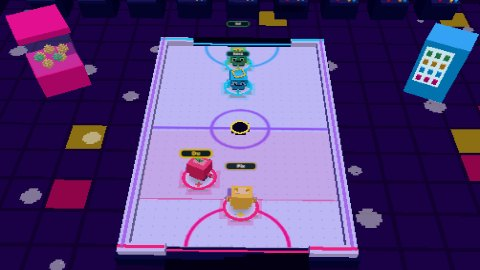
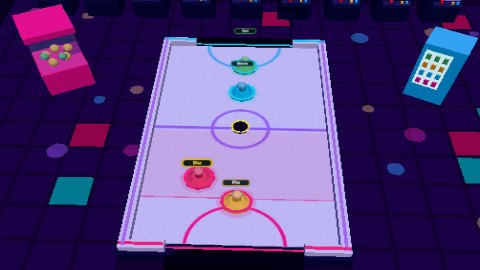
Luftpuck: die Spieler sind jetzt Airhockey-Schläger
Bisher standen Figuren auf Schwebescheiben über dem Tisch. Von oben
verdeckten sie den Puck, und es sah nicht nach Airhockey aus. Jetzt ist
jeder Spieler ein Schläger, wie man ihn vom echten Tisch kennt: flacher
Fuss und kegeliger Aufbau in der eigenen Farbe, ein Neonring in der
Teamfarbe, Griff mit Knauf, darüber das Namensschild. Die Grösse ist
genau der Stossradius aus den Regeln.

Damit es sich lebendig anfühlt: Der Schläger neigt sich leicht in die
Bewegung, staucht sich bei jedem Stoss kurz, hüpft beim eigenen Tor, und
am Ende hüpft das Siegerteam. Allein spielt man gegen einen grauen
Automaten-Schläger mit rotem Ring statt gegen einen Kasten.

Die Lichtpunkte der Discokugel waren weisse, halbdurchsichtige Flecken
und wirkten auf dem dunklen Boden wie graue Schlieren; jetzt sind es
farbige Neonlichter. Hilfetexte und Vorschaubild angepasst.

Claude-Session: https://claude.ai/code/session_01TtCca8TKwPjvga33C8jxNp

diff --git a/client/src/minigames/AirHockey.js b/client/src/minigames/AirHockey.js
@@ -2,13 +2,17 @@ import * as THREE from "/vendor/three/three.module.js";
 import { MinigameScene } from "./MinigameScene.js?v=tumblekin213";
 import { VirtualJoystick } from "./VirtualJoystick.js?v=tumblekin213";
 import { frameLerp } from "./Quality.js?v=tumblekin213";
+import { createNameLabel } from "./VoxelKit.js?v=tumblekin213";
 import { kiste, lambert, viele, streuer } from "./Kulisse.js?v=tumblekin213";
 import { forecastHockey, hockeyRules, limits } from "./Puckbahn.js?v=tumblekin213";
 
 // Luftpuck — ein riesiger Airhockey-Tisch in einer Neon-Spielhalle. Jeder
-// steht auf einer Schwebescheibe in seiner Hälfte und schiebt den Puck. Das
-// eigene Tor liegt für Team 0 vorn, für Team 1 hinten; die Banden leuchten in
-// der Farbe des Teams, das sie verteidigt.
+// Spieler IST ein Airhockey-Schläger: runder Fuss in der eigenen Farbe, ein
+// Neonring in der Teamfarbe, Griff mit Knauf obendrauf, darüber das
+// Namensschild. Vorher standen Figuren auf Schwebescheiben — sie verdeckten
+// den Puck, und es sah nicht nach Airhockey aus. Das eigene Tor liegt für
+// Team 0 vorn, für Team 1 hinten; die Banden leuchten in der Farbe des
+// Teams, das sie verteidigt.
 //
 // Drumherum: Spielautomaten mit flimmernden Bildschirmen, ein Greifautomat,
 // Neonschriften, eine Discokugel, die Lichtpunkte über den Boden wirft, und
@@ -22,7 +26,7 @@ const TICK_LEAD_MS = 45;         // halber Servertakt (90 ms), siehe stickAt
 export class AirHockey extends MinigameScene {
   constructor(ctx) {
     super(ctx);
-    this.discs = new Map();
+    this.mallets = new Map();      // playerId → { group, body, side, r, hit, hop }
     this.roundTrip = 0;
     this.stickLog = [];            // { at, x, y }: was das Gerät wann geschickt hat (Geräteuhr)
     this.stickWanted = null;
@@ -31,7 +35,7 @@ export class AirHockey extends MinigameScene {
     this.view = null;              // Vorausrechnung zur Ankunftszeit (forecastHockey)
     this.ownTouchAt = 0;           // wann das Gerät den eigenen Stoss schon gezeigt hat
     this.seenGoals = 0;
-    this.labelY = 0.8;
+    this.labelY = 0.78;
     this.screens = [];
     this.spots = null;
     this.lastTouch = null;
@@ -90,28 +94,14 @@ export class AirHockey extends MinigameScene {
       const entry = arcade?.players?.[player.id];
       const r = entry?.r ?? 0.36;
       const side = entry?.side ?? index % 2;
-      this.addKin(player, index, { x: entry?.x ?? 0, ground: TABLE_Y + 0.12, z: entry?.z ?? 0, facing: side === 0 ? Math.PI : 0 });
-      // Die Schwebescheibe unter der Figur, im Teamlicht.
-      const disc = new THREE.Group();
-      const koerper = new THREE.Mesh(new THREE.CylinderGeometry(r, r * 1.02, 0.12, 28), lambert("#f4f6fb"));
-      koerper.castShadow = true;
-      disc.add(koerper);
-      const ring = new THREE.Mesh(new THREE.TorusGeometry(r, 0.035, 6, 28), new THREE.MeshBasicMaterial({ color: TEAM_COLORS[side] }));
-      ring.rotation.x = Math.PI / 2;
-      ring.position.y = 0.06;
-      disc.add(ring);
-      const glow = new THREE.Mesh(new THREE.CircleGeometry(r * 1.3, 24), new THREE.MeshBasicMaterial({ color: TEAM_COLORS[side], transparent: true, opacity: 0.25, depthWrite: false }));
-      glow.rotation.x = -Math.PI / 2;
-      glow.position.y = -0.055;
-      glow.userData.isFx = true;
-      disc.add(glow);
-      const punkt = new THREE.Mesh(new THREE.CircleGeometry(0.08, 12), new THREE.MeshBasicMaterial({ color: player.color }));
-      punkt.rotation.x = -Math.PI / 2;
-      punkt.position.set(0, 0.061, r * 0.62);
-      disc.add(punkt);
-      disc.position.set(entry?.x ?? 0, TABLE_Y + 0.06, entry?.z ?? 0);
-      scene.add(disc);
-      this.discs.set(player.id, { disc, side, r });
+      const mallet = buildMallet(player.color, TEAM_COLORS[side], r);
+      mallet.group.position.set(entry?.x ?? 0, TABLE_Y, entry?.z ?? 0);
+      const label = createNameLabel(String(player.name || "?").slice(0, 8), player.color, { own: player.id === this.getControlledPlayerId() });
+      label.position.y = this.labelY;
+      mallet.group.add(label);
+      this.labels.set(player.id, label);
+      scene.add(mallet.group);
+      this.mallets.set(player.id, { ...mallet, side, r, hit: 0, hop: 0 });
       // Im Zweierteam hat jeder eine Zone — die eigene leuchtet schwach auf
       // dem Tisch, damit klar ist, warum die Scheibe dort stehen bleibt.
       if (player.id === this.getControlledPlayerId() && entry?.lane) {
@@ -133,14 +123,11 @@ export class AirHockey extends MinigameScene {
       }
     });
     if (state?.robot) {
-      const robo = new THREE.Group();
-      kiste(robo, 0.5, 0.36, 0.5, "#9aa6b8", [0, 0.3, 0]);
-      kiste(robo, 0.36, 0.08, 0.04, "#ff3b3b", [0, 0.38, 0.26], { schatten: false });
-      const scheibe2 = new THREE.Mesh(new THREE.CylinderGeometry(state.robot.r, state.robot.r, 0.12, 28), lambert("#c9d1dc"));
-      robo.add(scheibe2);
-      robo.position.set(state.robot.x, TABLE_Y + 0.06, state.robot.z);
-      scene.add(robo);
-      this.robot = robo;
+      // Allein spielt man gegen einen Automaten-Schläger: grau, rotes Licht.
+      const robo = buildMallet("#9aa6b8", "#ff3b3b", state.robot.r);
+      robo.group.position.set(state.robot.x, TABLE_Y, state.robot.z);
+      scene.add(robo.group);
+      this.robot = robo.group;
     }
   }
 
@@ -222,7 +209,12 @@ export class AirHockey extends MinigameScene {
     this.discoBall = kugel;
     const punkte = [];
     for (let i = 0; i < 26; i += 1) punkte.push({ p: [0, 0.012, 0], r: [-Math.PI / 2, 0, 0], s: 0.2 + zufall() * 0.15 });
-    this.spots = viele(scene, new THREE.CircleGeometry(1, 10), new THREE.MeshBasicMaterial({ color: "#ffffff", transparent: true, opacity: 0.5, depthWrite: false }), punkte);
+    // Farbiges Licht, das sich addiert — weisse halbdurchsichtige Flecken
+    // sahen auf dem dunklen Boden aus wie graue Schlieren.
+    this.spots = viele(scene, new THREE.CircleGeometry(1, 10), new THREE.MeshBasicMaterial({ color: "#ffffff", transparent: true, opacity: 0.35, depthWrite: false, blending: THREE.AdditiveBlending }), punkte);
+    const neon = ["#ff3b8d", "#2fd6ff", "#b57bff", "#ffe25c"].map((c) => new THREE.Color(c));
+    punkte.forEach((_, i) => this.spots.setColorAt(i, neon[i % neon.length]));
+    if (this.spots.instanceColor) this.spots.instanceColor.needsUpdate = true;
     this.spots.userData.isFx = true;
     this.spotSeeds = punkte.map(() => ({ a: zufall() * Math.PI * 2, r: 3 + zufall() * 6, s: 0.1 + zufall() * 0.2 }));
     // Anzeigetafel über dem Tisch.
@@ -315,7 +307,7 @@ export class AirHockey extends MinigameScene {
       </div>`;
     this.joystick = new VirtualJoystick({
       root: this.controls.querySelector(".joystick-slot"),
-      label: "Luftpuck: Scheibe steuern",
+      label: "Luftpuck: Schläger steuern",
       intervalMs: 60,
       feedback: this.feedback,
       surface: this.webglCanvas,
@@ -438,50 +430,57 @@ export class AirHockey extends MinigameScene {
         if (event.kind !== "touch" || event.id !== controlledId || event.at <= this.ownTouchAt) return;
         this.ownTouchAt = event.at;
         this.ownTouchShownAt = performance.now();
-        this.animators.get(controlledId)?.trigger("punch");
+        const own = this.mallets.get(controlledId);
+        if (own) own.hit = 1;
         this.burst(new THREE.Vector3(event.x, TABLE_Y + 0.1, event.z), [TEAM_COLORS[arcade.players[controlledId]?.side ?? 0], "#ffffff"], { count: 6, speed: 1.3, up: 0.8, size: 0.05, life: 0.35 });
         this.feedback?.sound("clack");
         this.feedback?.vibrate(10);
       });
     }
 
-    // Scheiben und Figuren.
+    // Die Schläger.
+    const sieger = f.finale ? ((state.score?.[0] || 0) > (state.score?.[1] || 0) ? 0 : (state.score?.[1] || 0) > (state.score?.[0] || 0) ? 1 : -1) : -1;
     players.forEach((player) => {
       const entry = view.mallets.get(player.id) || arcade.players[player.id];
       const served = arcade.players[player.id];
-      const kin = this.kins.get(player.id);
-      const animator = this.animators.get(player.id);
-      const disc = this.discs.get(player.id);
-      if (!entry || !kin || !animator || !disc) return;
+      const m = this.mallets.get(player.id);
+      if (!entry || !m) return;
       const isOwn = player.id === controlledId;
-      // Die eigene Scheibe folgt der Vorausrechnung fast ohne Verzug — sie
+      // Der eigene Schläger folgt der Vorausrechnung fast ohne Verzug — er
       // IST schon die Antwort auf den Stick.
       const follow = isOwn ? 0.75 : 0.5;
-      disc.disc.position.x += (entry.x - disc.disc.position.x) * frameLerp(follow, dt);
-      disc.disc.position.z += (entry.z - disc.disc.position.z) * frameLerp(follow, dt);
-      disc.disc.position.y = TABLE_Y + 0.06 + Math.sin(now / 200 + disc.r * 10) * 0.012;
-      kin.position.x = disc.disc.position.x;
-      kin.position.z = disc.disc.position.z;
-      // Die Figur schaut zum Puck.
-      const look = Math.atan2(this.puck.position.x - kin.position.x, this.puck.position.z - kin.position.z);
-      kin.rotation.y += Math.atan2(Math.sin(look - kin.rotation.y), Math.cos(look - kin.rotation.y)) * frameLerp(0.2, dt);
-      const moving = Math.hypot(entry.vx || 0, entry.vz || 0) > 0.6;
+      const g = m.group;
+      const px = g.position.x;
+      const pz = g.position.z;
+      g.position.x += (entry.x - g.position.x) * frameLerp(follow, dt);
+      g.position.z += (entry.z - g.position.z) * frameLerp(follow, dt);
+      // Neigt sich leicht in die Bewegung, wie unter einer Hand.
+      const vx = dt > 0 ? (g.position.x - px) / dt : 0;
+      const vz = dt > 0 ? (g.position.z - pz) / dt : 0;
+      m.body.rotation.z += (Math.max(-0.22, Math.min(0.22, -vx * 0.035)) - m.body.rotation.z) * frameLerp(0.3, dt);
+      m.body.rotation.x += (Math.max(-0.22, Math.min(0.22, vz * 0.035)) - m.body.rotation.x) * frameLerp(0.3, dt);
+      // Stoss: kurz breiter und flacher; Tor: ein Hüpfer; am Ende hüpft das
+      // Siegerteam.
+      m.hit = Math.max(0, m.hit - dt * 5);
+      m.hop = Math.max(0, m.hop - dt * 1.6);
+      const cheer = sieger === m.side ? Math.max(0, Math.sin(now / 140 + m.r * 7)) * 0.18 : 0;
+      g.position.y = TABLE_Y + Math.sin(m.hop * Math.PI * 2) * 0.12 * m.hop + cheer;
+      m.body.scale.set(1 + m.hit * 0.14, 1 - m.hit * 0.18, 1 + m.hit * 0.14);
       if (f.finale) return;
-      animator.set(moving ? "ride" : "ready");
       // Stösse der anderen (und eigene, die die Vorausrechnung nicht sah)
       // kommen vom Server.
-      if ((served?.touches || 0) > (disc.touches ?? served?.touches ?? 0)) {
+      if ((served?.touches || 0) > (m.touches ?? served?.touches ?? 0)) {
         const shown = isOwn && performance.now() - (this.ownTouchShownAt || 0) < 500;
         if (!shown) {
-          animator.trigger("punch");
-          this.burst(this.puck.position.clone().setY(TABLE_Y + 0.1), [TEAM_COLORS[disc.side], "#ffffff"], { count: 6, speed: 1.3, up: 0.8, size: 0.05, life: 0.35 });
+          m.hit = 1;
+          this.burst(this.puck.position.clone().setY(TABLE_Y + 0.1), [TEAM_COLORS[m.side], "#ffffff"], { count: 6, speed: 1.3, up: 0.8, size: 0.05, life: 0.35 });
           if (isOwn) {
             this.feedback?.sound("clack");
             this.feedback?.vibrate(10);
           }
         }
       }
-      disc.touches = served?.touches || 0;
+      m.touches = served?.touches || 0;
     });
     const robot = view.state.robot || state.robot;
     if (this.robot && robot) {
@@ -500,7 +499,8 @@ export class AirHockey extends MinigameScene {
       this.drawBoard(state.score);
       const shooter = goal.by ? players.find((pl) => pl.id === goal.by) : null;
       this.pop(at.clone().add(new THREE.Vector3(0, 0.8, 0)), goal.own ? "EIGENTOR!" : "TOR!", { color: "#ffe36b", size: 0.6, life: 1.4 });
-      if (shooter) this.animators.get(shooter.id)?.trigger("celebrate");
+      const torschuetze = shooter && this.mallets.get(shooter.id);
+      if (torschuetze && !goal.own) torschuetze.hop = 1;
       const own = arcade.players[controlledId];
       this.rig.shake(0.45);
       if (own) {
@@ -633,4 +633,42 @@ function neonTextur(text) {
 
 function escapeName(name) {
   return String(name || "?").slice(0, 6).replace(/[&<>"']/g, "");
+}
+
+// Ein Airhockey-Schläger: flacher Fuss, Neonring, kegeliger Aufbau, Griff
+// mit Knauf. `body` neigt und staucht sich, `group` trägt die Position.
+function buildMallet(color, ringColor, r) {
+  const group = new THREE.Group();
+  const body = new THREE.Group();
+  group.add(body);
+  const hell = new THREE.Color(color).lerp(new THREE.Color("#ffffff"), 0.18);
+  const dunkel = new THREE.Color(color).lerp(new THREE.Color("#000000"), 0.25);
+  const fuss = new THREE.Mesh(new THREE.CylinderGeometry(r, r * 1.02, 0.08, 32), lambert(color));
+  fuss.position.y = 0.04;
+  fuss.castShadow = true;
+  body.add(fuss);
+  const ring = new THREE.Mesh(new THREE.TorusGeometry(r * 0.93, 0.035, 8, 32), new THREE.MeshBasicMaterial({ color: ringColor }));
+  ring.rotation.x = Math.PI / 2;
+  ring.position.y = 0.085;
+  body.add(ring);
+  const aufbau = new THREE.Mesh(new THREE.CylinderGeometry(r * 0.48, r * 0.8, 0.1, 28), lambert(color));
+  aufbau.position.y = 0.13;
+  aufbau.castShadow = true;
+  body.add(aufbau);
+  const griff = new THREE.Mesh(new THREE.CylinderGeometry(r * 0.24, r * 0.3, 0.18, 20), new THREE.MeshLambertMaterial({ color: dunkel }));
+  griff.position.y = 0.27;
+  griff.castShadow = true;
+  body.add(griff);
+  const knauf = new THREE.Mesh(new THREE.SphereGeometry(r * 0.36, 20, 14), new THREE.MeshLambertMaterial({ color: hell }));
+  knauf.scale.y = 0.8;
+  knauf.position.y = 0.38;
+  knauf.castShadow = true;
+  body.add(knauf);
+  // Ein Schein in der Ringfarbe unter dem Fuss.
+  const schein = new THREE.Mesh(new THREE.CircleGeometry(r * 1.3, 24), new THREE.MeshBasicMaterial({ color: ringColor, transparent: true, opacity: 0.22, depthWrite: false }));
+  schein.rotation.x = -Math.PI / 2;
+  schein.position.y = 0.006;
+  schein.userData.isFx = true;
+  group.add(schein);
+  return { group, body };
 }

diff --git a/client/src/minigames/catalog.js b/client/src/minigames/catalog.js
@@ -65,7 +65,7 @@ export const MINIGAME_CATALOG = [
   { type: "flaggenhoch", title: "Flaggen hoch", family: "flags", gesture: "flags", help: "Der Käpt'n hebt Rot, Blau oder beide Flaggen — mach es nach, so schnell du kannst. Aber nur, wenn er „Käpt'n sagt:“ ruft! Ruft er bloss „ROT!“, ist es eine Falle — wer dann stillhält, hat richtig. Die Kommandos kommen immer schneller; ein Fehler, und du sitzt an Deck und schaust den anderen zu. Es zählen die richtigen Antworten, bei Gleichstand die schnellere Hand." },
   { type: "honigwabe", title: "Honigwabe", family: "honey", gesture: "pick", help: "Vom Baum hängt eine Ranke voller Äpfel, dazwischen Honigwaben. Reihum pflückt jeder von unten einen oder zwei. Wer eine Wabe erwischt, wird gestochen und ist raus. Alles ist sichtbar — zähl ab und schieb die Wabe dem Nächsten zu. Einmal im Spiel darfst du deinen Zug ganz weiterschieben. Wer zuletzt übrig ist, gewinnt; unter Gleichen zählen die Früchte (goldene Äpfel drei)." },
   { type: "schneeball", title: "Schneeballhang", family: "snow", gesture: "stickThrow", help: "Oben auf dem Gipfel schiebt jeder eine Schneekugel vor sich her — beim Rollen wird sie grösser. WERFEN schickt sie los. Wer getroffen wird, fällt kurz um und verliert seine Kugel; der Werfer bekommt 1, 2 oder 4 Punkte, je grösser die Kugel war. Eine Riesenkugel walzt weiter und kann noch jemanden umwerfen. Trifft eine Kugel auf deine grosse Kugel vorn, zerplatzen beide: sie ist dein Schild." },
-  { type: "luftpuck", title: "Luftpuck", family: "hockey", gesture: "joystick", help: "Airhockey in der Neonhalle, zwei gegen zwei. Du stehst auf einer Schwebescheibe und bleibst in deiner Hälfte — im Zweierteam in deiner Zone: Sturm vorn, Abwehr hinten (sie leuchtet auf dem Tisch). Lenk die Scheibe mit dem Stick gegen den Puck. Von hinten angelaufen schiesst du am härtesten. Dein Tor ist das in deiner Teamfarbe. Wer zuerst fünf Tore hat, gewinnt — sonst zählt der Stand am Ende." },
+  { type: "luftpuck", title: "Luftpuck", family: "hockey", gesture: "joystick", help: "Airhockey in der Neonhalle, zwei gegen zwei. Du bist ein Airhockey-Schläger in deiner Farbe und bleibst in deiner Hälfte — im Zweierteam in deiner Zone: Sturm vorn, Abwehr hinten (sie leuchtet auf dem Tisch). Lenk den Schläger mit dem Stick gegen den Puck. Von hinten angelaufen schiesst du am härtesten. Dein Tor ist das in deiner Teamfarbe. Wer zuerst fünf Tore hat, gewinnt — sonst zählt der Stand am Ende." },
   { type: "buecherwurm", title: "Bücherwurm", family: "book", gesture: "joystick", help: "Ihr steht auf der Seite eines Riesenbuchs. Hinten klappt die nächste Seite hoch und fällt nach vorn — in ihr sind Löcher in allen Formen: Kreis, Stern, Dreieck, Plus und mehr. Die Seite bleibt liegen, und hinten wartet schon die nächste. Ihr Schatten zeigt, wo die Löcher landen: stell dich rechtzeitig in ein Loch, sonst wirst du platt gedrückt und bist raus. Die Löcher werden weniger und kleiner, und man darf sich gegenseitig hinausschubsen. Gezählt werden die überstandenen Seiten." },
   { type: "schnappschuss", title: "Schnappschuss", family: "photo", gesture: "stickShove", help: "Premiere auf dem roten Teppich! Der Fotograf zeigt einen Bildausschnitt auf der Bühne, zählt herunter und blitzt. Wer im Ausschnitt steht, ist auf dem Foto (10 Punkte), wer der Mitte am nächsten ist, aufs Titelbild (+10 — der Stern zeigt, wer es gerade wäre), und wer ganz allein drauf ist, bekommt noch 5. Wer zuerst in der Mitte steht, hält sie im Gedränge. Herausholen kann ihn nur SCHUBS: du schnellst nach vorn, und wen du rammst, der fliegt aus dem Bild." },
   { type: "kippboot", title: "Kippboot", family: "boat", gesture: "tap", help: "Über dem Ruderboot fährt ein Kran hin und her, am Haken hängt ein Passagier. Bist du dran, tippst du, und er plumpst dorthin, wo er gerade hängt. Weiter aussen gibt es mehr Punkte (bis dreifach), aber das Boot neigt sich stärker: der Streifen an der Bordwand zeigt, wo er sicher landet (grün) und wo das Boot kentern würde (rot). Wer es zum Kentern bringt, verliert 30 Punkte. Gespielt wird in Runden — jeder ist einmal dran, alle mit demselben Tier, vom Küken bis zum Schwein. Ist das Boot voll, legt es ab, und alle, die mitgeladen haben, bekommen etwas dazu." },

diff --git a/client/src/minigames/guides.js b/client/src/minigames/guides.js
@@ -75,7 +75,7 @@ export const MINIGAME_GUIDES = {
   flaggenhoch: guide("reaction", "Tippe die gezeigten Flaggen nach, wenn der Käpt'n es befiehlt.", "Nur bei „Käpt'n sagt:“ reagieren! Ohne diese Worte stillhalten."),
   honigwabe: guide("thinking", "Pflück reihum einen oder zwei Äpfel — wer eine Wabe erwischt, ist raus.", "Zähl voraus und lass die Wabe dem Nächsten. Einmal darfst du passen."),
   schneeball: guide("together", "Rolle mit dem Stick eine Schneekugel und wirf sie auf die anderen.", "Große Kugeln bringen mehr Punkte und können dich vor Treffern schützen."),
-  luftpuck: guide("together", "Steuere deine Scheibe gegen den Puck. Schieß fünf Tore mit deinem Team.", "Dein eigenes Tor hat deine Teamfarbe. Bleib in deiner leuchtenden Zone."),
+  luftpuck: guide("together", "Steuere deinen Schläger gegen den Puck. Schieß fünf Tore mit deinem Team.", "Dein eigenes Tor hat deine Teamfarbe. Bleib in deiner leuchtenden Zone."),
   buecherwurm: guide("skill", "Stell dich mit dem Stick in ein Loch, bevor die Buchseite herunterfällt.", "Jede Seite hat andere Lochformen; der Schatten zeigt sie. Einmal platt, und du bist raus."),
   schnappschuss: guide("together", "Steh beim Blitz im Bildausschnitt. In der Mitte gibt es Extrapunkte.", "Mit SCHUBS kannst du andere aus dem Foto drängen."),
   kippboot: guide("skill", "Tippe in deinem Zug, um den Passagier ins Boot fallen zu lassen.", "Außen gibt es mehr Punkte. Grün ist sicher; Kentern kostet 30 Punkte."),

diff --git a/README.md b/README.md
@@ -120,7 +120,7 @@ darum Zeichen für Zeichen mit dem Katalog — Gruppen, Reihenfolge und Texte.
 - **Bumper Pool:** Nur der Stick: Lenken, Anlauf nehmen und rammen. Loslassen bremst. Fahr eine gleichmäßige Kurve, um Schwung aufzubauen: Du wirst schneller und rammst kräftiger. Schnelles Hin-und-her-Wackeln lädt ihn nicht. Schubs die anderen von der Badeinsel ins Becken. Der Rand hält niemanden — wer selbst darüber fährt, fällt auch. Wer reinfällt, ist raus und schaut den anderen zu. In den letzten 15 Sekunden schrumpft die Insel. Wer am längsten oben bleibt, gewinnt; danach zählen die Rauswürfe.
 - **Tiefenrausch:** Tauch mit dem Stick nach Gold — je tiefer, desto wertvoller, ganz unten wartet eine Truhe. Die Luft wird knapp, und zwar unten schneller: Die weisse Marke im Luftbalken zeigt, was der Weg nach oben kostet — kommt die Luft ihr nahe, tauch auf. Oben füllt sie sich wieder, und dein Gold ist sicher eingezahlt. Quallen kosten Luft und etwas Gold. Geht dir die Luft aus, ist alles weg, was du trägst.
 - **Farbenjagd:** Leg den Finger irgendwo aufs Spielfeld und zieh: so lenkst du deine Farbwalze über die Leinwand — was sie überrollt, hat sofort deine Farbe, auch fremde. Auf deiner eigenen Farbe fährst du schneller, auf fremder langsamer — bau dir Bahnen und übermal die anderen. Goldene Walze = breiter malen, Farbbombe = riesiger Klecks vor dir. Jede Farbe trägt ihr Zeichen auf den Kacheln — deins steht oben im Balken. Wer am Ende die meiste Fläche hat, gewinnt.
-- **Luftpuck:** Airhockey in der Neonhalle, zwei gegen zwei. Du stehst auf einer Schwebescheibe und bleibst in deiner Hälfte — im Zweierteam in deiner Zone: Sturm vorn, Abwehr hinten (sie leuchtet auf dem Tisch). Lenk die Scheibe mit dem Stick gegen den Puck. Von hinten angelaufen schiesst du am härtesten. Dein Tor ist das in deiner Teamfarbe. Wer zuerst fünf Tore hat, gewinnt — sonst zählt der Stand am Ende.
+- **Luftpuck:** Airhockey in der Neonhalle, zwei gegen zwei. Du bist ein Airhockey-Schläger in deiner Farbe und bleibst in deiner Hälfte — im Zweierteam in deiner Zone: Sturm vorn, Abwehr hinten (sie leuchtet auf dem Tisch). Lenk den Schläger mit dem Stick gegen den Puck. Von hinten angelaufen schiesst du am härtesten. Dein Tor ist das in deiner Teamfarbe. Wer zuerst fünf Tore hat, gewinnt — sonst zählt der Stand am Ende.
 - **Bücherwurm:** Ihr steht auf der Seite eines Riesenbuchs. Hinten klappt die nächste Seite hoch und fällt nach vorn — in ihr sind Löcher in allen Formen: Kreis, Stern, Dreieck, Plus und mehr. Die Seite bleibt liegen, und hinten wartet schon die nächste. Ihr Schatten zeigt, wo die Löcher landen: stell dich rechtzeitig in ein Loch, sonst wirst du platt gedrückt und bist raus. Die Löcher werden weniger und kleiner, und man darf sich gegenseitig hinausschubsen. Gezählt werden die überstandenen Seiten.
 
 ### 👆 Wischen · halten sprintet
